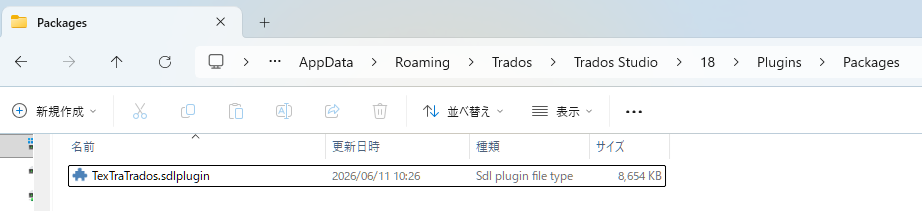
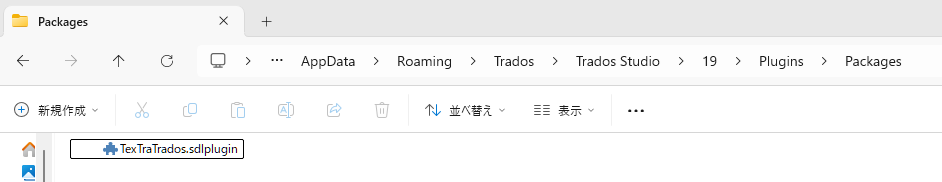
trados 2026

diff --git a/README.md b/README.md
@@ -22,8 +22,8 @@ Tradosのアドインフォルダに配置してください。<br>
 （アドインフォルダは
 、Tradosインストール後、自動で作成されています。）<br>
 <br>
-アドインフォルダ、Trados2024の場合<br>
-%AppData%\Trados\Trados Studio\18\Plugins\Packages<br>
+アドインフォルダ、Trados2026の場合<br>
+%AppData%\Trados\Trados Studio\19\Plugins\Packages<br>
 ![](images/002.png)
 
 Tradosを起動した際、<br>
@@ -40,8 +40,8 @@ Please download the add‑in file “TexTraTrados.sdlplugin”<br>
 from the “Releases” section on this page and run it.<br>
 https://github.com/NICT-Dev/TexTra-Trados/releases<br>
 
-Add‑in folder for Trados 2024:<br>
-%AppData%\Trados\Trados Studio\18\Plugins\Packages<br>
+Add‑in folder for Trados 2026:<br>
+%AppData%\Trados\Trados Studio\19\Plugins\Packages<br>
 ![](images/002.png)
 
 When you start Trados, you will see the message:<br>
@@ -79,8 +79,8 @@ https://twitter.com/minhonMT
 
 ## 💻 実行環境 System Requirements
 
-RWS社、Trados2024
-RWS、Trados2024
+RWS社、Trados 2024(V1.5.1最終)、Trados 2026<br>
+RWS、Trados 2024(V1.5.1Final)、Trados 2026<br>
 
 ------
 みんなの自動翻訳 - TexTra Trados (古い内容が含まれています。)<br>
